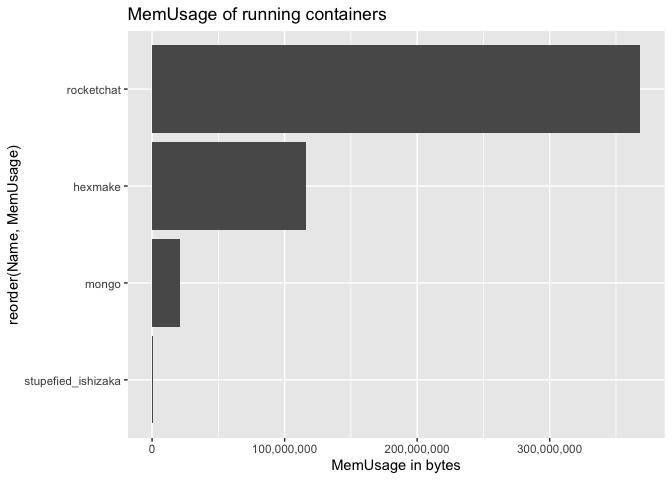
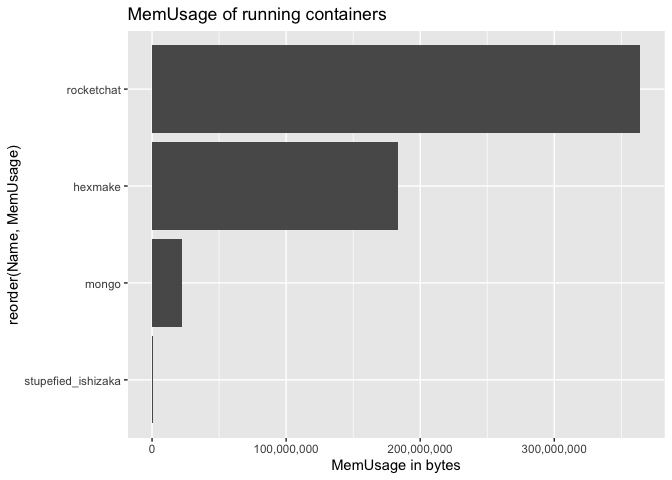
forgot a :: in the README

diff --git a/README.md b/README.md
@@ -19,7 +19,7 @@ some point.
 You can install the released version of `{dockerstats}` from GitHubwith:
 
 ``` r
-remotes:install_github("ColinFay/dockerstats")
+remotes::install_github("ColinFay/dockerstats")
 ```
 
 ## How to
@@ -35,21 +35,25 @@ By default, `dockerstats()` returns the stats for running containers.
 ``` r
 dockerstats()
 #>      Container               Name
-#> 1 7f3b0a08a7aa stupefied_ishizaka
-#> 2 1c32d35562fb         rocketchat
-#> 3 9e9605a015d4              mongo
+#> 1 b98c686fc095            hexmake
+#> 2 7f3b0a08a7aa stupefied_ishizaka
+#> 3 1c32d35562fb         rocketchat
+#> 4 9e9605a015d4              mongo
 #>                                                                 ID CPUPerc
-#> 1 7f3b0a08a7aa502657d0d5459f9cd412f0399825f8e15262bf47fe0cd4cc825d    0.00
-#> 2 1c32d35562fbd442c75e132e4075f379fc2097293a1ab0b5361debf2d4ab74cb    0.13
-#> 3 9e9605a015d4378283947ed16f547a8272039ec853b4962010203204d2c05167    3.16
+#> 1 b98c686fc09546490b927f0bb743ef493cd82414a89842a26c1ca42c8aff8d5b    0.28
+#> 2 7f3b0a08a7aa502657d0d5459f9cd412f0399825f8e15262bf47fe0cd4cc825d    0.00
+#> 3 1c32d35562fbd442c75e132e4075f379fc2097293a1ab0b5361debf2d4ab74cb    1.39
+#> 4 9e9605a015d4378283947ed16f547a8272039ec853b4962010203204d2c05167    2.23
 #>   MemUsage MemLimit MemPerc   NetI   NetO BlockI BlockO PIDs
-#> 1   516KiB 1.943GiB    0.03 8.23kB     0B     0B     0B    1
-#> 2 351.4MiB 1.943GiB   17.66 99.4MB 80.9MB     0B     0B   12
-#> 3 20.31MiB 1.943GiB    1.02 80.8MB 99.2MB     0B     0B   55
+#> 1 174.8MiB 1.943GiB    8.78 29.7kB  566kB     0B     0B    4
+#> 2   516KiB 1.943GiB    0.03 9.59kB     0B     0B     0B    1
+#> 3 347.3MiB 1.943GiB   17.46  121MB 98.3MB     0B     0B   12
+#> 4 21.04MiB 1.943GiB    1.06 98.1MB  120MB     0B     0B   55
 #>           record_time extra
-#> 1 2020-04-10 21:21:30      
-#> 2 2020-04-10 21:21:30      
-#> 3 2020-04-10 21:21:30
+#> 1 2020-04-11 23:37:57      
+#> 2 2020-04-11 23:37:57      
+#> 3 2020-04-11 23:37:57      
+#> 4 2020-04-11 23:37:57
 ```
 
 You can return stats for all containers (not just running)
@@ -57,47 +61,53 @@ You can return stats for all containers (not just running)
 ``` r
 dockerstats(all = TRUE)
 #>       Container                    Name
-#> 1  bdac8ae662bd           rocketchating
-#> 2  ad640c7420ea     compassionate_ellis
-#> 3  ea890803de3c           sleepy_colden
-#> 4  5cef479fec0e           boring_swartz
-#> 5  658ed62c82ed            elegant_pare
-#> 6  d74bd9004627          exciting_yalow
-#> 7  f5cb6430e103      gallant_lichterman
-#> 8  f8c3f4b47931 heuristic_proskuriakova
-#> 9  1a8588105357          pedantic_booth
-#> 10 7c16ac79e629           focused_chaum
-#> 11 e2f0dc1dab14           boring_liskov
-#> 12 7f3b0a08a7aa      stupefied_ishizaka
-#> 13 194f087c356e       boring_mcclintock
-#> 14 7f575179ad72       flamboyant_sammet
-#> 15 82b75a1bdbe8                    jack
-#> 16 5b1197c61bfb                   login
-#> 17 ca323ae39e42                   proxy
-#> 18 1c32d35562fb              rocketchat
-#> 19 9e9605a015d4                   mongo
+#> 1  b98c686fc095                 hexmake
+#> 2  dbcf81982870   mystifying_hofstadter
+#> 3  841be05ca06f           nice_einstein
+#> 4  bdac8ae662bd           rocketchating
+#> 5  ad640c7420ea     compassionate_ellis
+#> 6  ea890803de3c           sleepy_colden
+#> 7  5cef479fec0e           boring_swartz
+#> 8  658ed62c82ed            elegant_pare
+#> 9  d74bd9004627          exciting_yalow
+#> 10 f5cb6430e103      gallant_lichterman
+#> 11 f8c3f4b47931 heuristic_proskuriakova
+#> 12 1a8588105357          pedantic_booth
+#> 13 7c16ac79e629           focused_chaum
+#> 14 e2f0dc1dab14           boring_liskov
+#> 15 7f3b0a08a7aa      stupefied_ishizaka
+#> 16 194f087c356e       boring_mcclintock
+#> 17 7f575179ad72       flamboyant_sammet
+#> 18 82b75a1bdbe8                    jack
+#> 19 5b1197c61bfb                   login
+#> 20 ca323ae39e42                   proxy
+#> 21 1c32d35562fb              rocketchat
+#> 22 9e9605a015d4                   mongo
 #>                                                                  ID CPUPerc
-#> 1  bdac8ae662bd5c4b647fad89b73c95a66f84406a07d9e1c4e0db5a0eff33ad6b    0.00
-#> 2  ad640c7420ea021453866e974666b7337885220238dadd3b717fa42bc51f3b26    0.00
-#> 3  ea890803de3c6bf430c39b4c9e03ae79f18a01f453fe6794ca2d02882c2f905b    0.00
-#> 4  5cef479fec0e5a8ab1b8940364ff4779e4abb2adfd2a9f8dbe1f6f470cb5d9c1    0.00
-#> 5  658ed62c82edbb32979c2adac7ad75ce65b41bfb7044758e34c79d45804a6f31    0.00
-#> 6  d74bd9004627efa518ea0fe669434fa6ccd2f86491e39311c9211bfb860839e2    0.00
-#> 7  f5cb6430e103fc3c0e57942e8a96f84ffc55f4006cd089e1be5a82bfec808935    0.00
-#> 8  f8c3f4b4793146069b336db2ec8d96732920eac759991138ba0695d05a8e2de6    0.00
-#> 9  1a8588105357e77d1e284615d7461a259c41f654c5db66e3b8964fa5395a4d65    0.00
-#> 10 7c16ac79e629e7d74137840876561733614aea265c4876c360160cd258e85d5f    0.00
-#> 11 e2f0dc1dab146b1b0418f3cd620fdaa0ba40645aa822b10261e8ba221499aaa2    0.00
-#> 12 7f3b0a08a7aa502657d0d5459f9cd412f0399825f8e15262bf47fe0cd4cc825d    0.00
-#> 13 194f087c356e992778f8ddac61eeb4e4e107caee43af8c1d8072e6aad425f97a    0.00
-#> 14 7f575179ad72079840887cd52ad0fe5a97313d4864414e35660c8740265351ff    0.00
-#> 15 82b75a1bdbe8ce1750210646c02a4dd24c0113c162de2f58d6534c0b25e8b2f0    0.00
-#> 16 5b1197c61bfba9614ccea0c69f9ae048e44e85ac0e64f36f240bc9220f962f5d    0.00
-#> 17 ca323ae39e42d898417b019b2bf7f06feaf877d248cd71b9cad8eebc3f5e1126    0.00
-#> 18 1c32d35562fbd442c75e132e4075f379fc2097293a1ab0b5361debf2d4ab74cb    2.54
-#> 19 9e9605a015d4378283947ed16f547a8272039ec853b4962010203204d2c05167    3.67
+#> 1  b98c686fc09546490b927f0bb743ef493cd82414a89842a26c1ca42c8aff8d5b    0.13
+#> 2  dbcf81982870c42b73534e3e1e41ad5871c0dcb3d4f9b4b8a97b71f4d1bd5eb2    0.00
+#> 3  841be05ca06f9b96fce842e426fc2d23a5ce968c898bd401ddcd7057ae790ac7    0.00
+#> 4  bdac8ae662bd5c4b647fad89b73c95a66f84406a07d9e1c4e0db5a0eff33ad6b    0.00
+#> 5  ad640c7420ea021453866e974666b7337885220238dadd3b717fa42bc51f3b26    0.00
+#> 6  ea890803de3c6bf430c39b4c9e03ae79f18a01f453fe6794ca2d02882c2f905b    0.00
+#> 7  5cef479fec0e5a8ab1b8940364ff4779e4abb2adfd2a9f8dbe1f6f470cb5d9c1    0.00
+#> 8  658ed62c82edbb32979c2adac7ad75ce65b41bfb7044758e34c79d45804a6f31    0.00
+#> 9  d74bd9004627efa518ea0fe669434fa6ccd2f86491e39311c9211bfb860839e2    0.00
+#> 10 f5cb6430e103fc3c0e57942e8a96f84ffc55f4006cd089e1be5a82bfec808935    0.00
+#> 11 f8c3f4b4793146069b336db2ec8d96732920eac759991138ba0695d05a8e2de6    0.00
+#> 12 1a8588105357e77d1e284615d7461a259c41f654c5db66e3b8964fa5395a4d65    0.00
+#> 13 7c16ac79e629e7d74137840876561733614aea265c4876c360160cd258e85d5f    0.00
+#> 14 e2f0dc1dab146b1b0418f3cd620fdaa0ba40645aa822b10261e8ba221499aaa2    0.00
+#> 15 7f3b0a08a7aa502657d0d5459f9cd412f0399825f8e15262bf47fe0cd4cc825d    0.00
+#> 16 194f087c356e992778f8ddac61eeb4e4e107caee43af8c1d8072e6aad425f97a    0.00
+#> 17 7f575179ad72079840887cd52ad0fe5a97313d4864414e35660c8740265351ff    0.00
+#> 18 82b75a1bdbe8ce1750210646c02a4dd24c0113c162de2f58d6534c0b25e8b2f0    0.00
+#> 19 5b1197c61bfba9614ccea0c69f9ae048e44e85ac0e64f36f240bc9220f962f5d    0.00
+#> 20 ca323ae39e42d898417b019b2bf7f06feaf877d248cd71b9cad8eebc3f5e1126    0.00
+#> 21 1c32d35562fbd442c75e132e4075f379fc2097293a1ab0b5361debf2d4ab74cb    0.12
+#> 22 9e9605a015d4378283947ed16f547a8272039ec853b4962010203204d2c05167    2.15
 #>    MemUsage MemLimit MemPerc   NetI   NetO BlockI BlockO PIDs
-#> 1        0B       0B    0.00     0B     0B     0B     0B    0
+#> 1  174.8MiB 1.943GiB    8.78 29.7kB  566kB     0B     0B    4
 #> 2        0B       0B    0.00     0B     0B     0B     0B    0
 #> 3        0B       0B    0.00     0B     0B     0B     0B    0
 #> 4        0B       0B    0.00     0B     0B     0B     0B    0
@@ -108,34 +118,40 @@ dockerstats(all = TRUE)
 #> 9        0B       0B    0.00     0B     0B     0B     0B    0
 #> 10       0B       0B    0.00     0B     0B     0B     0B    0
 #> 11       0B       0B    0.00     0B     0B     0B     0B    0
-#> 12   516KiB 1.943GiB    0.03 8.23kB     0B     0B     0B    1
+#> 12       0B       0B    0.00     0B     0B     0B     0B    0
 #> 13       0B       0B    0.00     0B     0B     0B     0B    0
 #> 14       0B       0B    0.00     0B     0B     0B     0B    0
-#> 15       0B       0B    0.00     0B     0B     0B     0B    0
+#> 15   516KiB 1.943GiB    0.03 9.59kB     0B     0B     0B    1
 #> 16       0B       0B    0.00     0B     0B     0B     0B    0
 #> 17       0B       0B    0.00     0B     0B     0B     0B    0
-#> 18 351.7MiB 1.943GiB   17.67 99.4MB 80.9MB     0B     0B   12
-#> 19 20.34MiB 1.943GiB    1.02 80.8MB 99.2MB     0B     0B   55
+#> 18       0B       0B    0.00     0B     0B     0B     0B    0
+#> 19       0B       0B    0.00     0B     0B     0B     0B    0
+#> 20       0B       0B    0.00     0B     0B     0B     0B    0
+#> 21 347.4MiB 1.943GiB   17.46  121MB 98.3MB     0B     0B   12
+#> 22 21.19MiB 1.943GiB    1.06 98.2MB  120MB     0B     0B   55
 #>            record_time extra
-#> 1  2020-04-10 21:21:32      
-#> 2  2020-04-10 21:21:32      
-#> 3  2020-04-10 21:21:32      
-#> 4  2020-04-10 21:21:32      
-#> 5  2020-04-10 21:21:32      
-#> 6  2020-04-10 21:21:32      
-#> 7  2020-04-10 21:21:32      
-#> 8  2020-04-10 21:21:32      
-#> 9  2020-04-10 21:21:32      
-#> 10 2020-04-10 21:21:32      
-#> 11 2020-04-10 21:21:32      
-#> 12 2020-04-10 21:21:32      
-#> 13 2020-04-10 21:21:32      
-#> 14 2020-04-10 21:21:32      
-#> 15 2020-04-10 21:21:32      
-#> 16 2020-04-10 21:21:32      
-#> 17 2020-04-10 21:21:32      
-#> 18 2020-04-10 21:21:32      
-#> 19 2020-04-10 21:21:32
+#> 1  2020-04-11 23:37:59      
+#> 2  2020-04-11 23:37:59      
+#> 3  2020-04-11 23:37:59      
+#> 4  2020-04-11 23:37:59      
+#> 5  2020-04-11 23:37:59      
+#> 6  2020-04-11 23:37:59      
+#> 7  2020-04-11 23:37:59      
+#> 8  2020-04-11 23:37:59      
+#> 9  2020-04-11 23:37:59      
+#> 10 2020-04-11 23:37:59      
+#> 11 2020-04-11 23:37:59      
+#> 12 2020-04-11 23:37:59      
+#> 13 2020-04-11 23:37:59      
+#> 14 2020-04-11 23:37:59      
+#> 15 2020-04-11 23:37:59      
+#> 16 2020-04-11 23:37:59      
+#> 17 2020-04-11 23:37:59      
+#> 18 2020-04-11 23:37:59      
+#> 19 2020-04-11 23:37:59      
+#> 20 2020-04-11 23:37:59      
+#> 21 2020-04-11 23:37:59      
+#> 22 2020-04-11 23:37:59
 ```
 
 Or from a subset of containers:
@@ -146,14 +162,14 @@ dockerstats("mongo", "proxy")
 #> 1     mongo mongo
 #> 2     proxy proxy
 #>                                                                 ID CPUPerc
-#> 1 9e9605a015d4378283947ed16f547a8272039ec853b4962010203204d2c05167    3.18
+#> 1 9e9605a015d4378283947ed16f547a8272039ec853b4962010203204d2c05167    2.74
 #> 2 ca323ae39e42d898417b019b2bf7f06feaf877d248cd71b9cad8eebc3f5e1126    0.00
-#>   MemUsage MemLimit MemPerc   NetI   NetO BlockI BlockO PIDs
-#> 1 20.36MiB 1.943GiB    1.02 80.8MB 99.2MB     0B     0B   55
-#> 2       0B       0B    0.00     0B     0B     0B     0B    0
-#>           record_time extra
-#> 1 2020-04-10 21:21:34      
-#> 2 2020-04-10 21:21:34
+#>   MemUsage MemLimit MemPerc   NetI  NetO BlockI BlockO PIDs         record_time
+#> 1 21.24MiB 1.943GiB    1.07 98.2MB 120MB     0B     0B   55 2020-04-11 23:38:01
+#> 2       0B       0B    0.00     0B    0B     0B     0B    0 2020-04-11 23:38:01
+#>   extra
+#> 1      
+#> 2
 ```
 
 The `extra` param is used to add extra information to the recording,
@@ -246,13 +262,13 @@ by `{dockerstats}`).
 dock_stats <- dockerstats()
 
 sort(dock_stats$MemUsage)
-#> [1] "111MiB"   "20.36MiB" "351.3MiB" "516KiB"
+#> [1] "174.8MiB" "21.34MiB" "347.3MiB" "516KiB"
 
 dock_stats$MemUsage <- fs::as_fs_bytes(
   dock_stats$MemUsage
 )
 sort(dock_stats$MemUsage)
-#> 516K  20.4M 111M 351.3M
+#> 516K  21.3M 174.8M 347.3M
 ```
 
 ``` r
